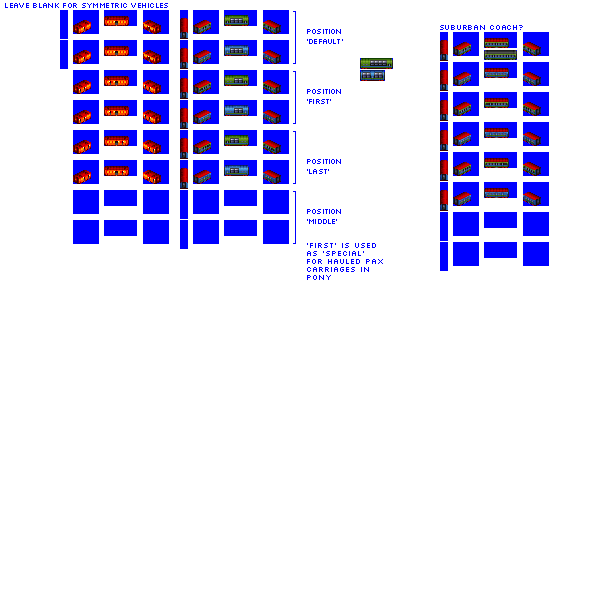
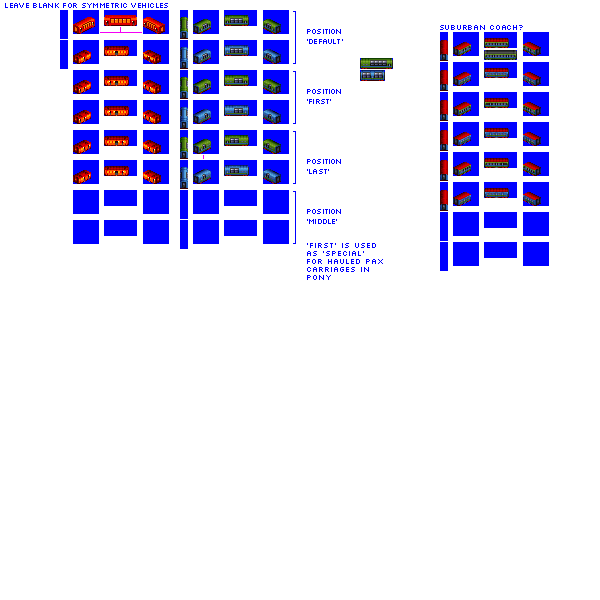
Change: sprites complete for pony NG gen 4 panoramic cars

diff --git a/src/vehicles/pony/panoramic_cars_pony.py b/src/vehicles/pony/panoramic_cars_pony.py
@@ -10,7 +10,7 @@ def main(roster_id, **kwargs):
         gen=4,
         subtype="B",
         base_track_type_name="NG",
-        sprites_complete=False,
+        sprites_complete=True,
     )
 
     consist.add_unit(type=PaxCar, suppress_roof_sprite=True, chassis="4_axle_ng_24px")
@@ -22,7 +22,7 @@ def main(roster_id, **kwargs):
         gen=4,
         subtype="C",
         base_track_type_name="NG",
-        sprites_complete=False,
+        sprites_complete=True,
     )
 
     consist.add_unit(type=PaxCar, suppress_roof_sprite=True, chassis="4_axle_ng_32px")

diff --git a/src/global_constants.py b/src/global_constants.py
@@ -13,7 +13,7 @@ wagon_module_names = [
     "express_railcar_mail_trailer_cars",
     "express_railcar_passenger_trailer_cars",
     "passenger_cars",
-    #"panoramic_cars",
+    "panoramic_cars",
     "high_speed_passenger_cars",
     "restaurant_cars",
     "suburban_passenger_cars",
